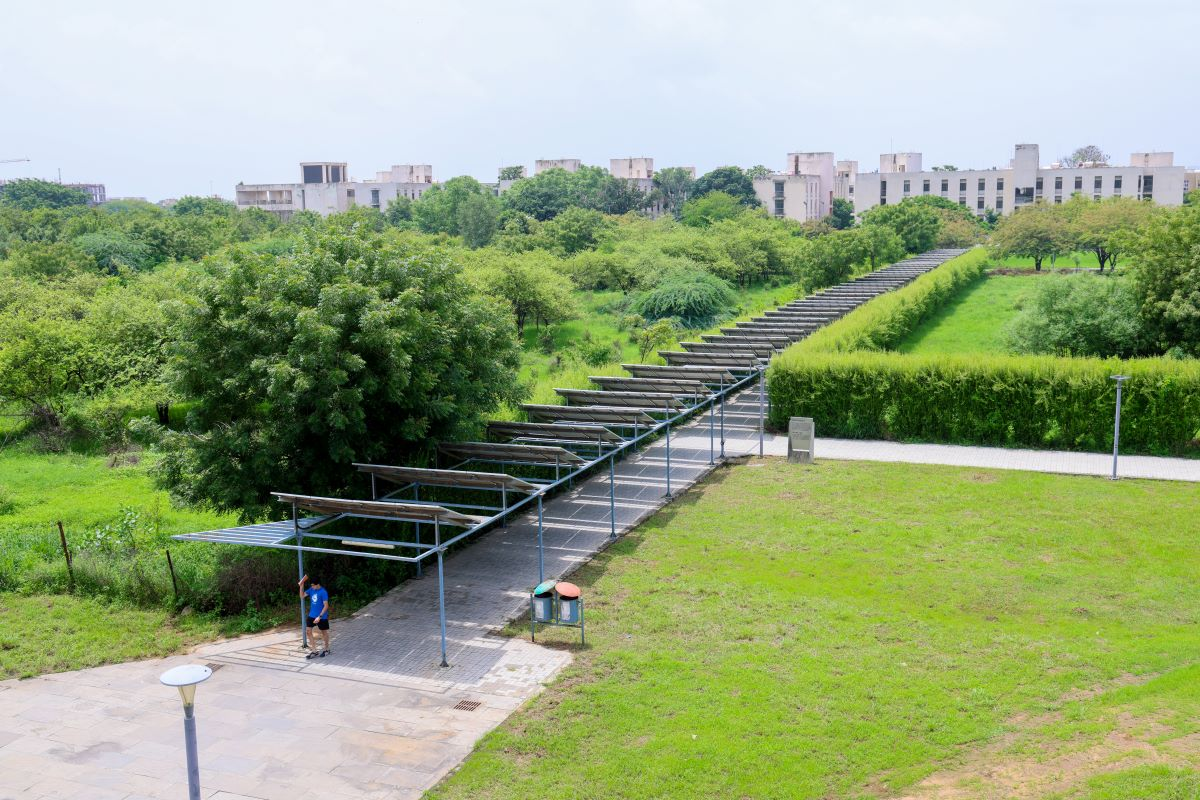
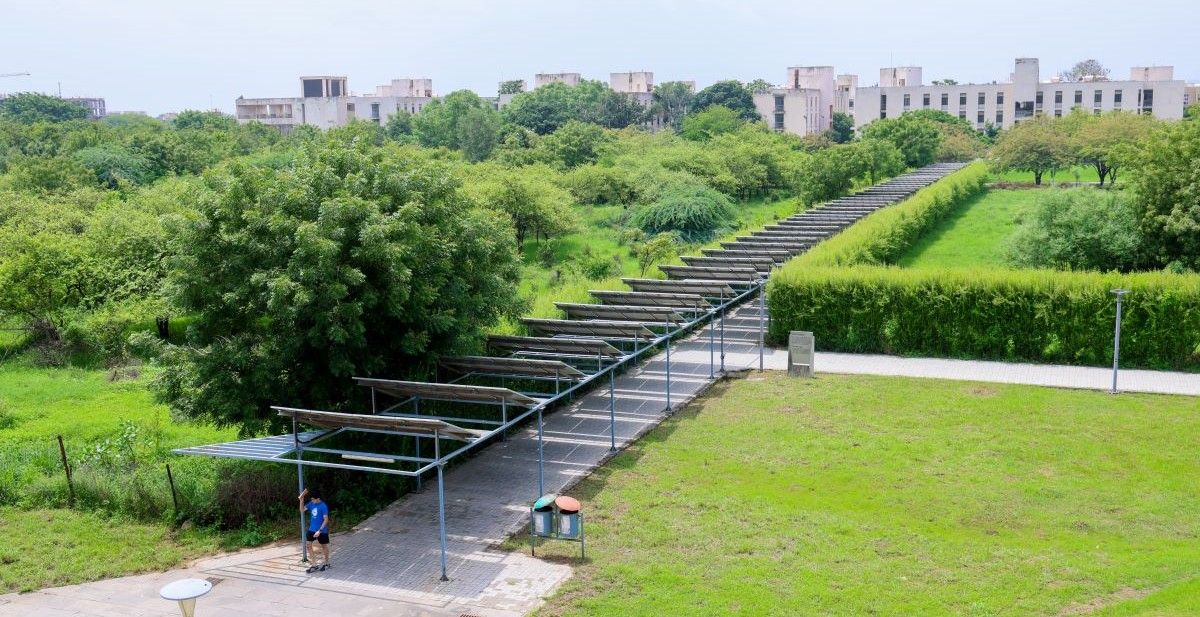
Added hostel info

diff --git a/hostels.html b/hostels.html
@@ -38,6 +38,174 @@
         </section>
     </div>
 
+    <div class="main-container">
+        <section class="text-center height-50">
+            <div class="container pos-vertical-center">
+                <div class="row">
+                    <div class="col-md-8">
+                        <h1>A home away from home</h1>
+                        <p class="lead">
+                            Our students are our greatest assets, and we aim to ensure that they are as comfortable outside the classroom as they are inside. Learn about our twelve hostel blocks.
+                        </p>
+                    </div>
+                </div>
+                <!--end of row-->
+            </div>
+            <!--end of container-->
+        </section>
+
+         <section class="elements-title space--xxs text-center">
+            <div class="container">
+                <div class="masonry">
+                    <div class="masonry__container row">
+                        <div class="col-md-4 masonry__item">
+                            <div class="card card-2 text-center">
+                                <div class="card__top">
+                                    <a href="#">
+                                        <img alt="Image" src="assets/images/hostel2.png">
+                                    </a>
+                                </div>
+                                <div class="card__body">
+                                    <h4>What's in a name?</h4>
+                                    <p>
+                                        Each hostel has a unique name (starting with a different letter) that makes them easily recongized as part of IIT Gandhinagar
+                                    </p>
+                                </div>
+                                <div class="card__bottom text-center">
+                                    
+                                </div>
+                            </div>
+                        </div>
+
+                        <div class="col-md-4 masonry__item">
+                            <div class="card card-2 text-center">
+                                <div class="card__top">
+                                    <a href="#">
+                                        <img alt="Image" src="assets/images/hostel6.jpg">
+                                    </a>
+                                </div>
+                                <div class="card__body">
+                                    <h4>By the numbers</h4>
+                                    <p>
+                                        The 12 hostels have a total capacity of 2,700 students with single, double, and triple sharing rooms
+                                    </p>
+                                </div>
+                                <div class="card__bottom text-center">
+                                    
+                                </div>
+                            </div>
+                        </div>
+
+                        <div class="col-md-4 masonry__item">
+                            <div class="card card-2 text-center">
+                                <div class="card__top">
+                                    <a href="#">
+                                        <img alt="Image" src="assets/images/shops/Atul.jpg">
+                                    </a>
+                                </div>
+                                <div class="card__body">
+                                    <h4>All the cravings</h4>
+                                    <p>
+                                        The hostel area comes equipped with several shops serving a variety of needs at all times of the day and night
+                                    </p>
+                                </div>
+                                <div class="card__bottom text-center">
+                                    <a class="btn btn--sm btn-light type--uppercase" href="shops.html#hostel">
+                                        <span class="btn__text">
+                                            Learn More
+                                        </span>
+                                    </a>
+                                </div>
+                            </div>
+                        </div>
+
+                        <div class="col-md-4 masonry__item">
+                            <div class="card card-2 text-center">
+                                <div class="card__top">
+                                    <a href="#">
+                                        <img alt="Image" src="assets/images/hostel5.jpg">
+                                    </a>
+                                </div>
+                                <div class="card__body">
+                                    <h4>Beat the heat</h4>
+                                    <p>
+                                        All hostel rooms have AC during the evening hours of the summer and monsoon seasons
+                                    </p>
+                                </div>
+                                <div class="card__bottom text-center">
+                                    
+                                </div>
+                            </div>
+                        </div>
+
+                        <div class="col-md-4 masonry__item">
+                            <div class="card card-2 text-center">
+                                <div class="card__top">
+                                    <a href="#">
+                                        <img alt="Image" src="assets/images/pcircle1.JPG">
+                                    </a>
+                                </div>
+                                <div class="card__body">
+                                    <h4>Community spaces</h4>
+                                    <p>
+                                        Two amphitheatres - Panchayat Circle and Panchangan - serve as spaces for community events.
+                                    </p>
+                                </div>
+                                <div class="card__bottom text-center">
+                                    
+                                </div>
+                            </div>
+                        </div>
+
+                        <div class="col-md-4 masonry__item">
+                            <div class="card card-2 text-center">
+                                <div class="card__top">
+                                    <a href="#">
+                                        <img alt="Image" src="assets/images/hostel4.jpg">
+                                    </a>
+                                </div>
+                                <div class="card__body">
+                                    <h4>Student clubs</h4>
+                                    <p>
+                                        Several student lounges serve as spaces for relaxation and student clubs' activities
+                                    </p>
+                                </div>
+                                <div class="card__bottom text-center">
+                                    
+                                </div>
+                            </div>
+                        </div>
+
+                        <div class="col-md-4 masonry__item">
+                            <div class="card card-2 text-center">
+                                <div class="card__top">
+                                    <a href="#">
+                                        <img alt="Image" src="assets/images/hostel7.jpg">
+                                    </a>
+                                </div>
+                                <div class="card__body">
+                                    <h4>A Vibrant Communtiy</h4>
+                                    <p>
+                                        Not just a collection of buildings but a vibrant community where our students grow
+                                    </p>
+                                </div>
+                                <div class="card__bottom text-center">
+                                    <a class="btn btn--sm btn-light type--uppercase" href="https://iitgn.ac.in/student/lifeoncampus/" target="_blank">
+                                        <span class="btn__text">
+                                            Learn More <i class="material-icons" style="font-size: 16px;">arrow_outward</i>
+                                        </span>
+                                    </a>
+                                </div>
+                            </div>
+                        </div>
+
+
+                    </div>
+                </div>
+            </div>
+         </section>
+    </div>
+
     <!-- Footer -->
     <div id="footer-placeholder"></div>
     <!--<div class="loader"></div>-->

diff --git a/housing.html b/housing.html
@@ -188,7 +188,7 @@
                                     </p>
                                 </div>
                                 <div class="card__bottom text-center">
-                                    <a class="btn btn--sm btn-light type--uppercase" href="https://maintenance.iitgn.ac.in/">
+                                    <a class="btn btn--sm btn-light type--uppercase" href="https://maintenance.iitgn.ac.in/" target="_blank">
                                         <span class="btn__text">
                                             Maintenance <i class="material-icons" style="font-size: 16px;">arrow_outward</i>
                                         </span>

diff --git a/index.html b/index.html
@@ -78,7 +78,7 @@
                             <div class="card card-2 text-center">
                                 <div class="card__top">
                                     <a href="#">
-                                        <img alt="Image" src="assets/images/solar-heater-1.png">
+                                        <img alt="Image" src="assets/images/solar-4.jpg">
                                     </a>
                                 </div>
                                 <div class="card__body">
